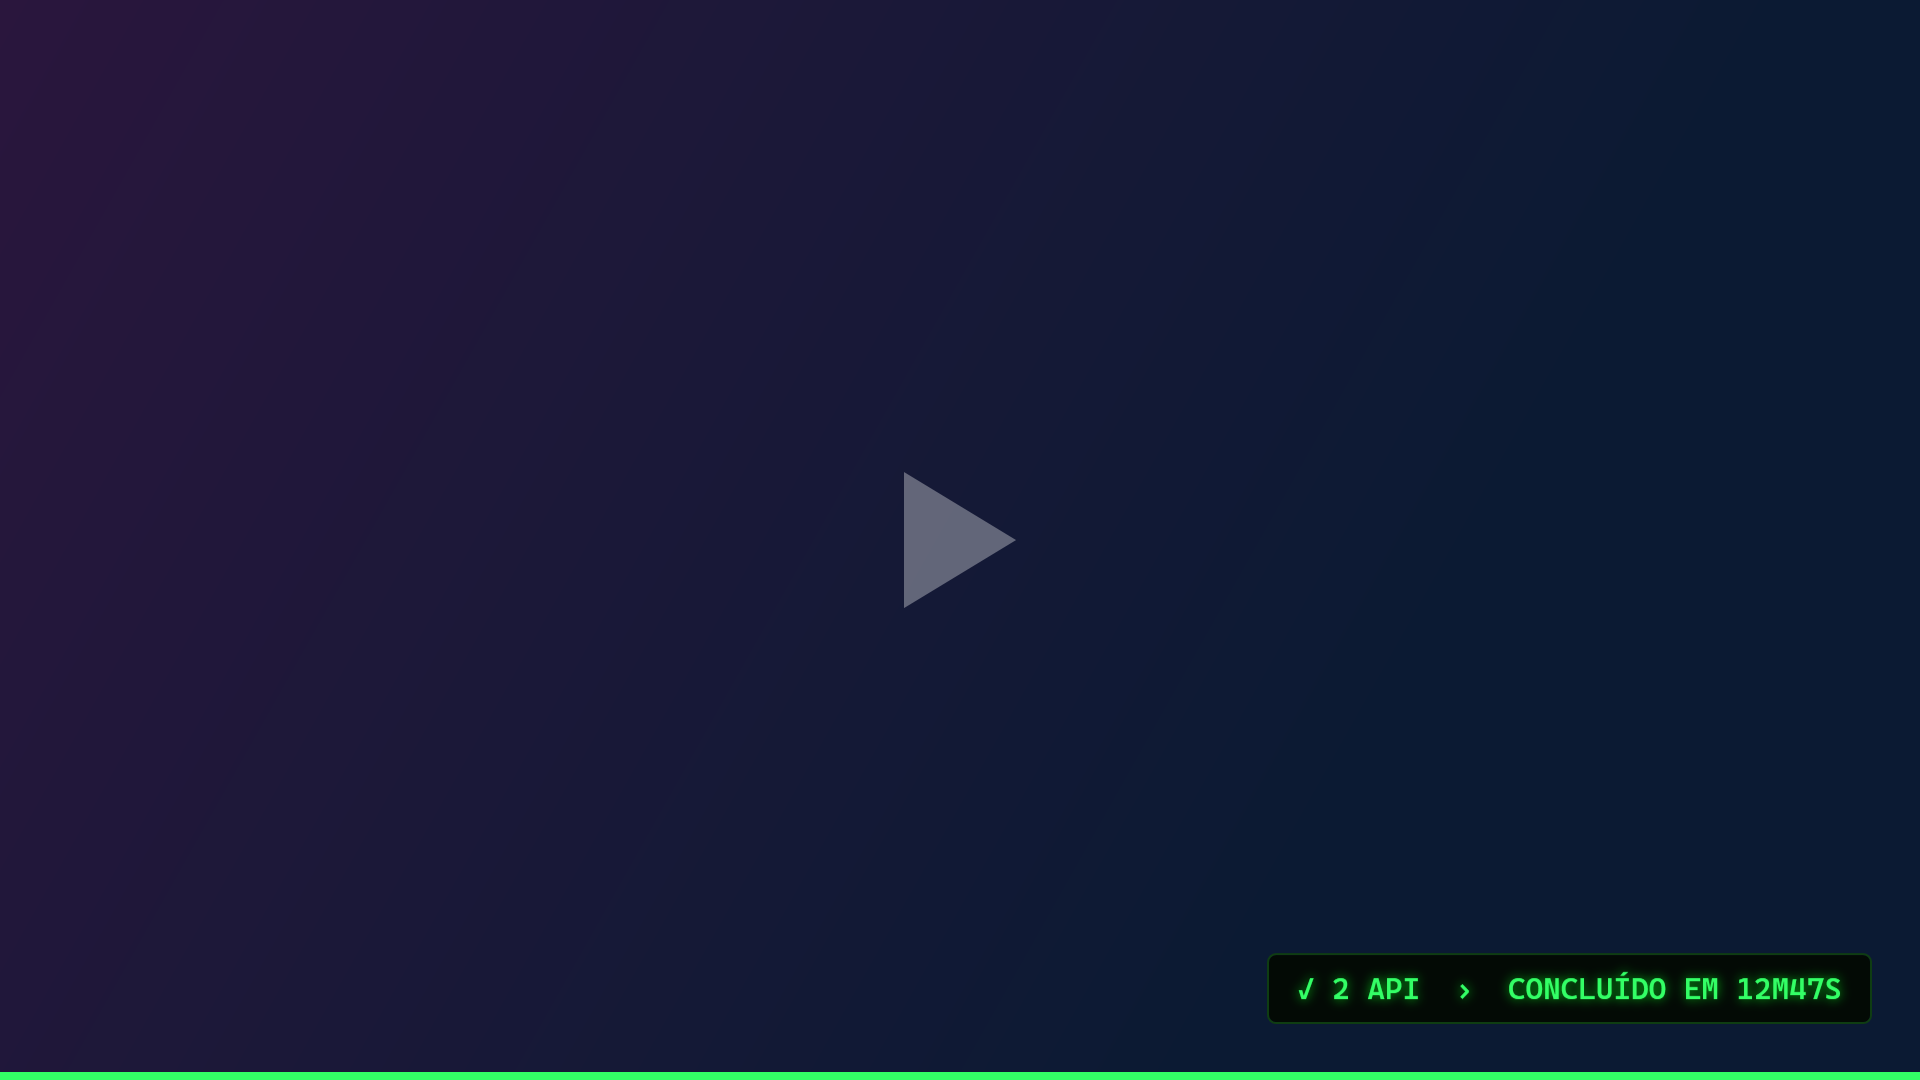
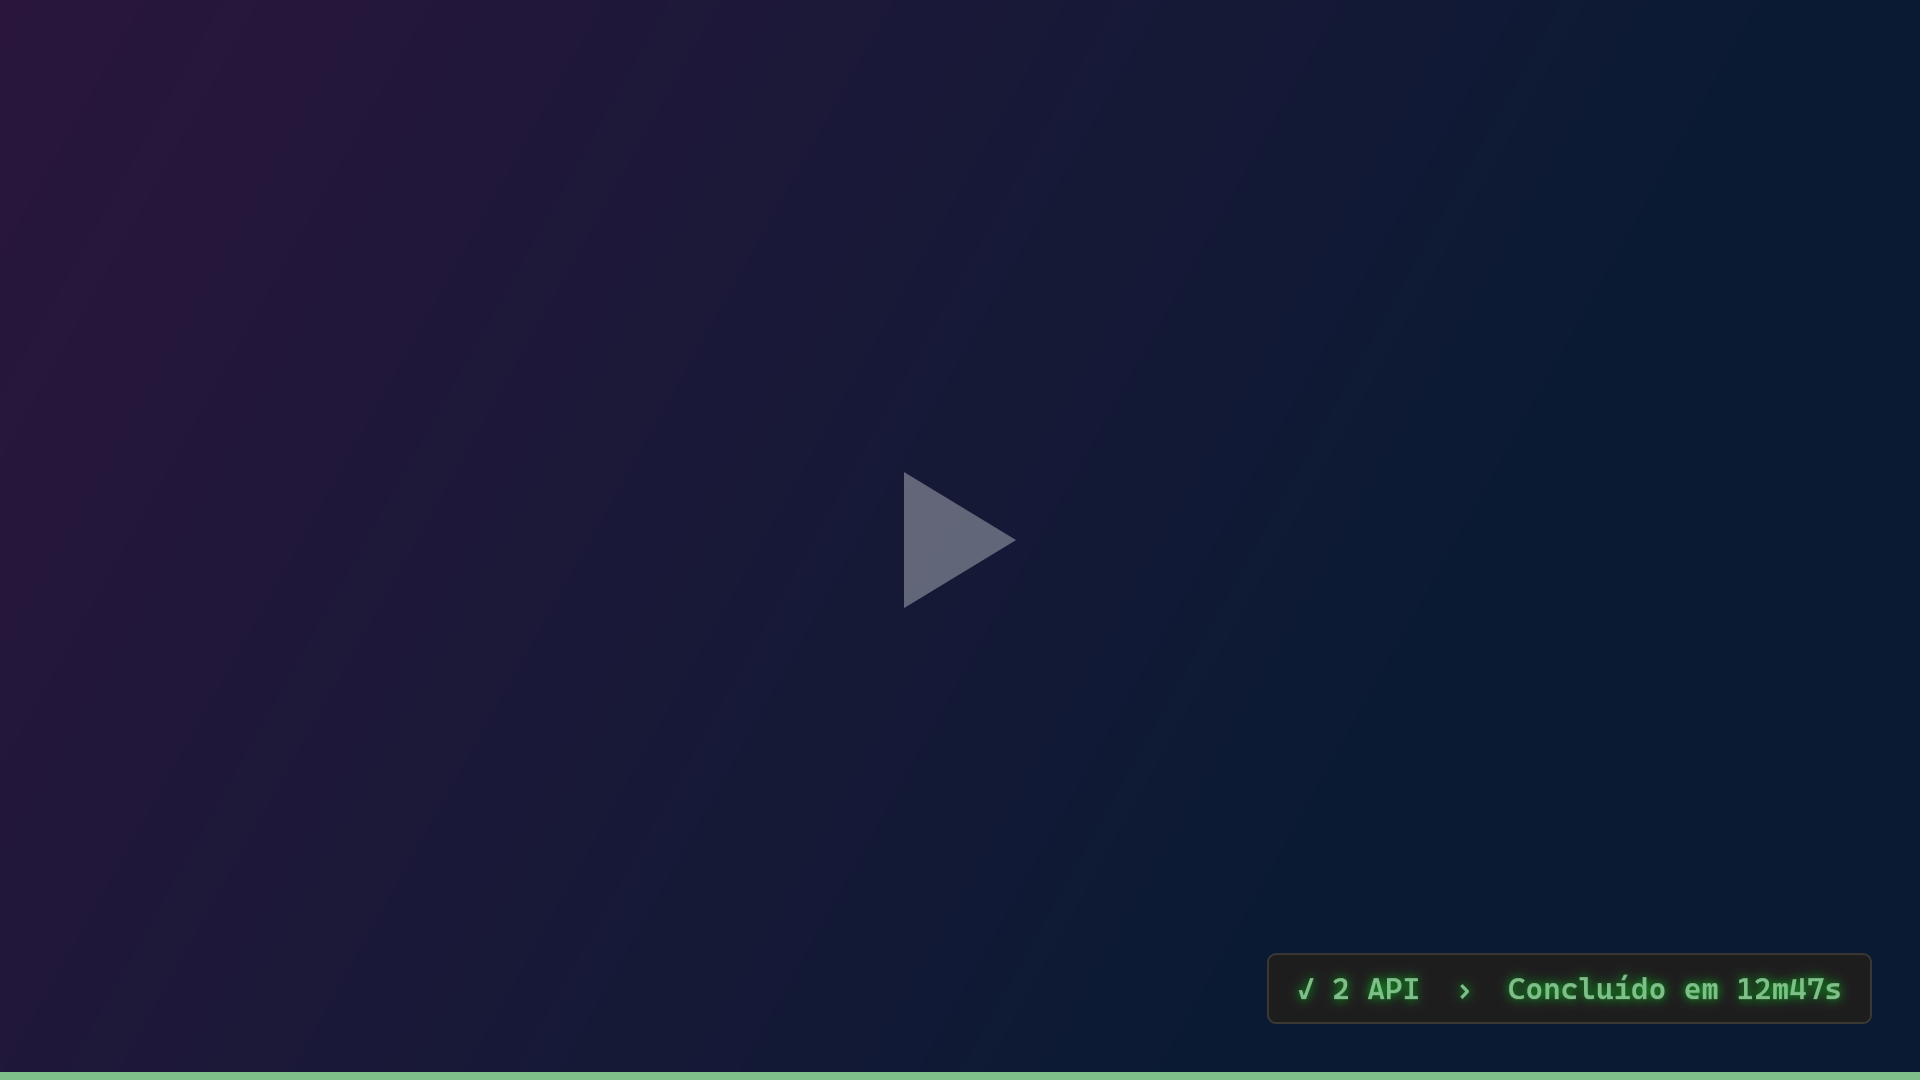
feat(themes): make Claude Code the default theme
New installs now start with the Claude Code theme: Claude Code's
terminal colors and a pulsing "✻". It is also first in the menu. Matrix
stays available as the original look, and its file is still the
reference for theme keys.

- PanelSettings.DefaultTheme is "ClaudeCode". ThemeCatalog.DefaultId and
  App.xaml follow it. An unknown or empty theme falls back to the
  default, not to the first entry.
- A theme the user already chose is kept.
- DemoRenderer takes the letter case of state and full-screen
  screenshots from the default theme instead of assuming capitals. All
  of them are regenerated.
- README and README.pt-BR now describe a terminal-style panel instead of
  a Matrix-style LED ticker. The theme table puts Claude Code first, and
  the visibility text now covers sessions running in VS Code. The
  license badge is terracotta.
- CLAUDE.md and REQUISITOS.md record the new default.

The macOS port (App.Avalonia) still uses the Matrix colors.

Changed region(s): [[0.0, 0.9778, 1.0, 1.0], [0.6562, 0.8861, 1.0, 0.9472]]

diff --git a/src/TaskbarLed.App/App.xaml b/src/TaskbarLed.App/App.xaml
@@ -5,7 +5,7 @@
   <Application.Resources>
     <ResourceDictionary>
       <ResourceDictionary.MergedDictionaries>
-        <ResourceDictionary Source="Themes/Matrix.xaml" />
+        <ResourceDictionary Source="Themes/ClaudeCode.xaml" />
       </ResourceDictionary.MergedDictionaries>
     </ResourceDictionary>
   </Application.Resources>

diff --git a/src/TaskbarLed.App/Demo/DemoRenderer.cs b/src/TaskbarLed.App/Demo/DemoRenderer.cs
@@ -51,6 +51,12 @@ internal static class DemoRenderer
         ThemeCatalog.Apply(app.Resources, ThemeCatalog.DefaultId);
     }
 
+    // State and full-screen screenshots use the default theme, in its own letter case.
+    private static bool DefaultUppercase => ThemeCatalog.Resolve(ThemeCatalog.DefaultId).Uppercase;
+
+    private static string Cased(string text, bool pt) =>
+        DefaultUppercase ? text.ToUpper(CultureInfo.GetCultureInfo(pt ? "pt-BR" : "en-US")) : text;
+
     private enum Scenario
     {
         Running,
@@ -121,11 +127,11 @@ internal static class DemoRenderer
         return frame;
     }
 
-    private static Grid Taskbar(PanelFrame frame, double width = TaskbarWidth, bool halo = false, string? editing = null, bool uppercase = true, bool light = false, Infrastructure.UiStrings? ui = null)
+    private static Grid Taskbar(PanelFrame frame, double width = TaskbarWidth, bool halo = false, string? editing = null, bool? uppercase = null, bool light = false, Infrastructure.UiStrings? ui = null)
     {
         var viewModel = new PanelViewModel(editing ?? string.Empty, CultureInfo.CurrentUICulture)
         {
-            Uppercase = uppercase,
+            Uppercase = uppercase ?? DefaultUppercase,
             SaveLabel = ui?.Save ?? "Save",
             CancelLabel = ui?.Cancel ?? "Cancel",
         };
@@ -202,7 +208,7 @@ internal static class DemoRenderer
 
         var text = new TextBlock
         {
-            Text = pt ? "✓ 2 API  ›  CONCLUÍDO EM 12M47S" : "✓ 2 API  ›  DONE IN 12M47S",
+            Text = Cased(pt ? "✓ 2 API  ›  Concluído em 12m47s" : "✓ 2 API  ›  Done in 12m47s", pt),
             FontSize = 15,
             FontWeight = FontWeights.SemiBold,
             Margin = new Thickness(14, 8, 14, 8),

diff --git a/src/TaskbarLed.App/Themes/ThemeCatalog.cs b/src/TaskbarLed.App/Themes/ThemeCatalog.cs
@@ -1,4 +1,5 @@
 using System.Windows;
+using TaskbarLed.Core.Settings;
 
 namespace TaskbarLed.App.Themes;
 
@@ -14,14 +15,15 @@ public sealed record ThemeInfo(string Id, string DisplayName, bool Uppercase);
 /// </summary>
 public static class ThemeCatalog
 {
-    public const string DefaultId = "Matrix";
+    public const string DefaultId = PanelSettings.DefaultTheme;
 
+    // Menu order: the default first, then the other terminal looks, then the modern cards.
     public static IReadOnlyList<ThemeInfo> All { get; } =
     [
+        new("ClaudeCode", "Claude Code", Uppercase: false),
+        new("ModernTerminal", "Modern Terminal", Uppercase: false),
         new("Matrix", "Matrix", Uppercase: true),
         new("Mono", "Mono", Uppercase: true),
-        new("ModernTerminal", "Modern Terminal", Uppercase: false),
-        new("ClaudeCode", "Claude Code", Uppercase: false),
         new("Minimal", "Minimal", Uppercase: false),
         new("Glass", "Glass", Uppercase: false),
         new("Paper", "Paper", Uppercase: false),
@@ -42,8 +44,11 @@ public static class ThemeCatalog
             id = renamed;
         }
 
-        return All.FirstOrDefault(t => string.Equals(t.Id, id, StringComparison.OrdinalIgnoreCase)) ?? All[0];
+        return Find(id) ?? Find(DefaultId)!;
     }
+
+    private static ThemeInfo? Find(string? id) =>
+        All.FirstOrDefault(t => string.Equals(t.Id, id, StringComparison.OrdinalIgnoreCase));
 
     /// <summary>Swaps the theme dictionary in the application resources.</summary>
     public static void Apply(ResourceDictionary resources, string? id)

diff --git a/src/TaskbarLed.Core/Settings/PanelSettings.cs b/src/TaskbarLed.Core/Settings/PanelSettings.cs
@@ -84,8 +84,11 @@ public sealed record PanelSettings
     /// <summary>Hours without events before a session is dropped.</summary>
     public double StaleSessionHours { get; init; } = 12;
 
+    /// <summary>Theme used until the user picks one: the warm terminal in the spirit of Claude Code.</summary>
+    public const string DefaultTheme = "ClaudeCode";
+
     /// <summary>Theme resource name (see Themes folder in the app).</summary>
-    public string Theme { get; init; } = "Matrix";
+    public string Theme { get; init; } = DefaultTheme;
 
     /// <summary>Position for the current <see cref="Placement"/>.</summary>
     public PanelPosition CurrentPosition => Placement switch
@@ -113,7 +116,7 @@ public sealed record PanelSettings
         VisibleThreshold = Math.Clamp(VisibleThreshold, 0.05, 0.95),
         RotationSeconds = Math.Clamp(RotationSeconds, 2, 120),
         StaleSessionHours = Math.Clamp(StaleSessionHours, 0.5, 168),
-        Theme = string.IsNullOrWhiteSpace(Theme) ? "Matrix" : Theme,
+        Theme = string.IsNullOrWhiteSpace(Theme) ? DefaultTheme : Theme,
     };
 
     private static PanelPosition Clamp(PanelPosition p) =>

diff --git a/tests/TaskbarLed.Core.Tests/PanelSettingsTests.cs b/tests/TaskbarLed.Core.Tests/PanelSettingsTests.cs
@@ -1,0 +1,27 @@
+using TaskbarLed.Core.Settings;
+
+namespace TaskbarLed.Core.Tests;
+
+public class PanelSettingsTests
+{
+    [Fact]
+    public void New_installs_start_with_the_Claude_Code_theme()
+    {
+        Assert.Equal("ClaudeCode", new PanelSettings().Theme);
+    }
+
+    [Theory]
+    [InlineData(null)]
+    [InlineData("")]
+    [InlineData("  ")]
+    public void A_missing_theme_falls_back_to_the_default(string? theme)
+    {
+        Assert.Equal(PanelSettings.DefaultTheme, (new PanelSettings() with { Theme = theme! }).Normalize().Theme);
+    }
+
+    [Fact]
+    public void A_chosen_theme_is_kept()
+    {
+        Assert.Equal("Matrix", (new PanelSettings() with { Theme = "Matrix" }).Normalize().Theme);
+    }
+}

diff --git a/README.md b/README.md
@@ -2,10 +2,10 @@
 
 # TaskbarLed
 
-**A Matrix-style LED ticker on your Windows taskbar that shows what Claude Code is doing, so you never have to wonder whether your prompt is done.**
+**A small terminal-style panel on your Windows taskbar that shows what Claude Code is doing, so you never have to wonder whether your prompt is done.**
 
 [![CI](https://github.com/llorenzojorge/TaskbarLed/actions/workflows/ci.yml/badge.svg)](https://github.com/llorenzojorge/TaskbarLed/actions/workflows/ci.yml)
-[![License: MIT](https://img.shields.io/badge/license-MIT-33ff66.svg)](LICENSE)
+[![License: MIT](https://img.shields.io/badge/license-MIT-d97757.svg)](LICENSE)
 ![.NET 10](https://img.shields.io/badge/.NET-10-512bd4.svg)
 ![Windows 10 | 11](https://img.shields.io/badge/Windows-10%20%7C%2011-0078d4.svg)
 
@@ -15,17 +15,17 @@
 
 </div>
 
-You send Claude a long prompt, switch to another app, and then keep coming back to check whether it has finished. TaskbarLed puts the answer in the empty left side of the taskbar. It **appears only while the Claude window is out of sight**, shows every running conversation, and blinks when one of them is done or needs you.
+You send Claude a long prompt, switch to another app, and then keep coming back to check whether it has finished. TaskbarLed puts the answer in the empty left side of the taskbar. It **appears only while Claude is out of sight**, shows every running conversation, and blinks when one of them is done or needs you.
 
 ## What it looks like
 
-Each conversation gets a tab. The feed below drops in each new action from the top and types it out, like the Claude chat.
+It wears the colors of the Claude Code terminal by default: cream text on warm charcoal, with a terracotta `✻` that pulses while Claude works. Each conversation gets a tab. The feed below drops in each new action from the top and types it out, like the Claude chat.
 
 | | |
 |---|---|
 | **Working.** The lit tab is the one in the feed. You see the current action, a prompt timer and how full the context window is. | <img src="docs/images/state-running-en.png" alt="Running"> |
-| **Needs you.** A permission request or a question turns the tab and the feed amber, blinking, and that session jumps to the front. | <img src="docs/images/state-waiting-en.png" alt="Waiting for approval"> |
-| **Done.** The tab shows `✓` and the panel blinks green **until you open Claude**, with the duration and Claude's last reply. | <img src="docs/images/state-done-en.png" alt="Finished"> |
+| **Needs you.** A permission request or a question turns the tab and the feed gold, blinking, and that session jumps to the front. | <img src="docs/images/state-waiting-en.png" alt="Waiting for approval"> |
+| **Done.** The tab shows `✓` and the panel blinks green **until you open the session's app** (Claude or VS Code), with the duration and Claude's last reply. | <img src="docs/images/state-done-en.png" alt="Finished"> |
 
 ### Watching a video in full screen?
 
@@ -37,11 +37,11 @@ You can switch to a click-through mini panel, alerts only, or nothing at all. Ex
 
 ## Features
 
-- **Shows up only when useful.** Hidden while Claude is on screen, including side by side with another app. Shown when Claude is minimized, covered or on another virtual desktop.
+- **Shows up only when useful.** Hidden while you can see the app each session runs in, including side by side with another app. Shown when it is minimized, covered or on another virtual desktop. A session in VS Code follows its VS Code window, so opening the Claude app does not hide it.
 - **Many sessions, one glance.** Numbered, named tabs with status marks you can read without color: `▸` running, `✓` done, `!` waiting.
 - **Live details.** Current action (editing a file, running a command, searching), the last reply, prompt timer and context usage.
 - **Place it your way.** On the taskbar, floating just above it, or anywhere on screen with edge snapping. Each placement remembers its own spot.
-- **Seven themes, switched live.** LED or modern, see [Themes](#themes).
+- **Seven themes, switched live.** Claude Code by default, plus terminal, LED and modern looks, see [Themes](#themes).
 - **English and Portuguese.** Follows Windows by default, or pick one in the menu.
 - **Works everywhere Claude Code runs.** Desktop app, CLI and IDE extensions (VS Code, JetBrains) share the same hooks.
 - **Light and private.** Event driven, about 60 MB of RAM, and nothing ever leaves your machine.
@@ -50,14 +50,14 @@ You can switch to a click-through mini panel, alerts only, or nothing at all. Ex
 
 Right-click the panel → **Theme**. The panel stays on screen while the menu is open, so you see each theme as you pick it.
 
-Two LED looks for the retro feel, and three modern ones with no dots and no glow:
+Two modern terminals, two retro LED looks, and three clean cards:
 
 | | |
 |---|---|
-| <img src="docs/images/theme-Matrix.png" alt="Matrix"><br>**Matrix**: green LED terminal, the default | <img src="docs/images/theme-Mono.png" alt="Mono"><br>**Mono**: black-and-white terminal |
+| <img src="docs/images/theme-ClaudeCode.png" alt="Claude Code"><br>**Claude Code**: warm terminal in the spirit of Claude Code, with a pulsing ✻ while it works. The default | <img src="docs/images/theme-ModernTerminal.png" alt="Modern Terminal"><br>**Modern Terminal**: ink-blue dark terminal with smooth cyan text |
+| <img src="docs/images/theme-Matrix.png" alt="Matrix"><br>**Matrix**: green LED terminal, the original look | <img src="docs/images/theme-Mono.png" alt="Mono"><br>**Mono**: black-and-white terminal |
 | <img src="docs/images/theme-Minimal.png" alt="Minimal"><br>**Minimal**: clean dark card | <img src="docs/images/theme-Glass.png" alt="Glass"><br>**Glass**: no box; text floats on the taskbar |
-| <img src="docs/images/theme-Paper.png" alt="Paper"><br>**Paper**: light, for a light taskbar | <img src="docs/images/theme-ModernTerminal.png" alt="Modern Terminal"><br>**Modern Terminal**: modern dark terminal, smooth text without LED dots |
-| <img src="docs/images/theme-ClaudeCode.png" alt="Claude Code"><br>**Claude Code**: warm terminal in the spirit of Claude Code, with a pulsing ✻ while it works | |
+| <img src="docs/images/theme-Paper.png" alt="Paper"><br>**Paper**: light, for a light taskbar | |
 
 Making your own takes one XAML file. See [Create a theme](CONTRIBUTING.md#create-a-theme).
 

diff --git a/docs/REQUISITOS.md b/docs/REQUISITOS.md
@@ -1,6 +1,6 @@
 # TaskbarLed — Requisitos
 
-Painel de LED estilo Matrix na área livre da barra de tarefas do Windows 11 que mostra, em tempo real, o andamento das sessões do Claude Code (app desktop, CLI e extensão do VS Code) enquanto a janela do Claude não está visível.
+Painel estilo terminal (originalmente um LED estilo Matrix) na área livre da barra de tarefas do Windows 11 que mostra, em tempo real, o andamento das sessões do Claude Code (app desktop, CLI e extensão do VS Code) enquanto a janela do Claude não está visível.
 
 ## 1. Requisitos funcionais
 
@@ -43,7 +43,7 @@ Painel de LED estilo Matrix na área livre da barra de tarefas do Windows 11 que
 | Plataforma | .NET 10 (LTS) + WPF | Moderno, padrão de mercado, bons efeitos visuais |
 | Comunicação hook → painel | Named pipe + arquivo de estado por sessão | Tempo real, com backup se o painel estiver fechado |
 | Nome | TaskbarLed | Neutro; permite suportar outras ferramentas de IA |
-| Tema inicial | Verde terminal (Matrix) | Escolha do usuário |
+| Tema inicial | Claude Code (terminal quente, ✻ terracota). Até a v1.1.0 era o verde terminal (Matrix), que continua disponível | Escolha do usuário; trocado em 2026-11-15 para ter a identidade do Claude Code |
 
 ## 4. Arquitetura (proposta)
 ```

diff --git a/CLAUDE.md b/CLAUDE.md
@@ -6,7 +6,7 @@ The maintainer speaks Brazilian Portuguese: talk to them in pt-BR. Code, comment
 
 ## What it is
 
-A WPF app (.NET 10, Windows 10/11) that draws an LED panel on the taskbar showing Claude Code sessions: tabs per session, a vertical typed-out feed, timer, context usage. It appears only while the Claude desktop window is out of sight; amber blink = waiting for the user, green blink = done until Claude is opened. Over borderless full screen it shows an edge glow and short alerts instead.
+A WPF app (.NET 10, Windows 10/11) that draws a small terminal-style panel on the taskbar showing Claude Code sessions: tabs per session, a vertical typed-out feed, timer, context usage. The default theme is `ClaudeCode` (Claude Code's terminal colors, a pulsing `✻`); `Matrix`, the original green LED look, is still the reference file for theme keys. It appears only while the app each session runs in (Claude desktop or VS Code) is out of sight; amber/gold blink = waiting for the user, green blink = done until that app is opened. Over borderless full screen it shows an edge glow and short alerts instead.
 
 ## Layout
 
